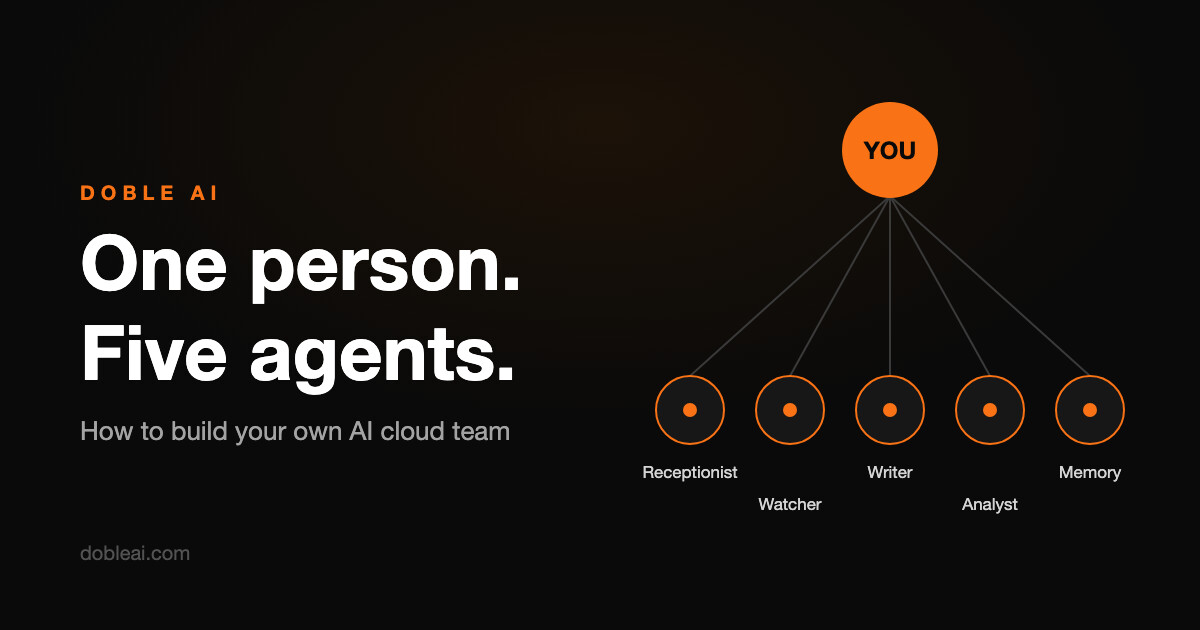
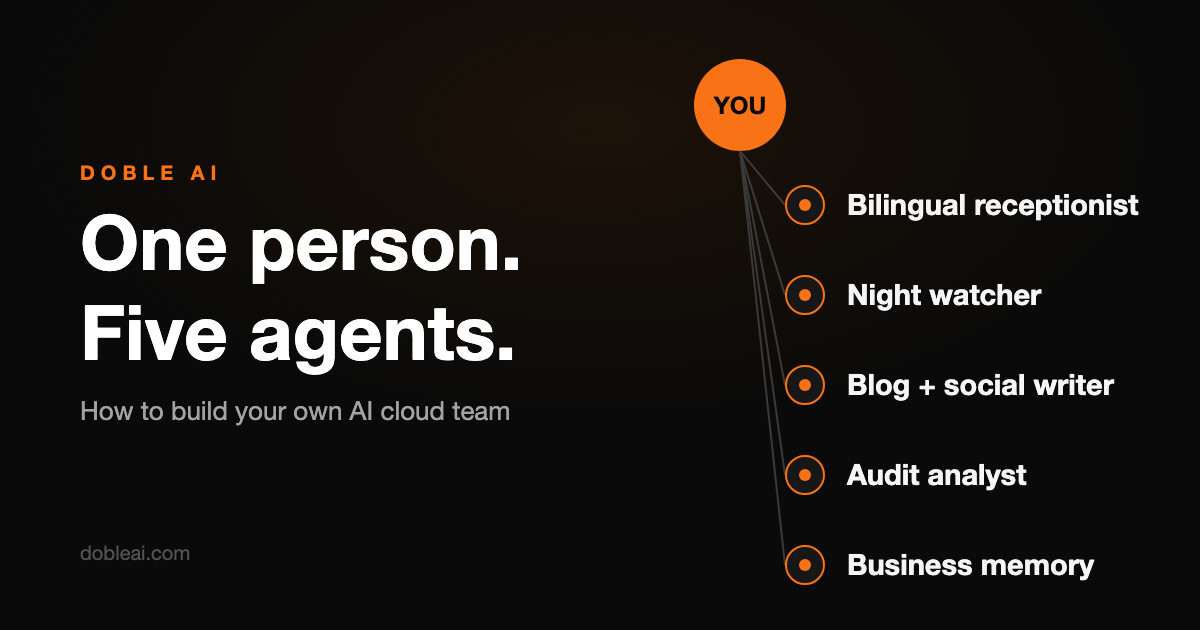
Redesign cloud-team cover: readable vertical roster, bilingual + social labels

diff --git a/app/lib/posts.tsx b/app/lib/posts.tsx
@@ -251,7 +251,7 @@ export const posts: Post[] = [
     readTime: "7 min read",
     coverImage: "/work/cloud-team-one-person-five-agents.jpg",
     coverAlt:
-      "Org chart with one orange node labeled YOU connected to five AI agent nodes labeled Receptionist, Watcher, Writer, Analyst, and Memory, next to the headline One person, five agents",
+      "Org chart with one orange node labeled YOU connected to five AI agents: bilingual receptionist, night watcher, blog and social writer, audit analyst, and business memory, next to the headline One person, five agents",
     keywords:
       "build your own AI team, AI cloud team small business, AI agents for small business, bilingual AI receptionist, AI monitoring small business, AI automation small business Colorado, bilingual AI implementation Eagle River Valley",
     content: (
@@ -451,7 +451,7 @@ export const posts: Post[] = [
     readTime: "7 min de lectura",
     coverImage: "/work/cloud-team-one-person-five-agents.jpg",
     coverAlt:
-      "Organigrama con un nodo naranja conectado a cinco agentes de IA: recepcionista, vigilante, redactor, analista y memoria, junto al titular One person, five agents",
+      "Organigrama con un nodo naranja conectado a cinco agentes de IA: recepcionista bilingüe, vigilante nocturno, redactor de blog y redes, analista de auditorías y memoria del negocio, junto al titular One person, five agents",
     keywords:
       "construir equipo de IA, agentes de IA para pequeños negocios, recepcionista de IA bilingüe, automatización con IA pequeños negocios, equipo de IA en la nube, implementación de IA bilingüe Colorado",
     content: (
